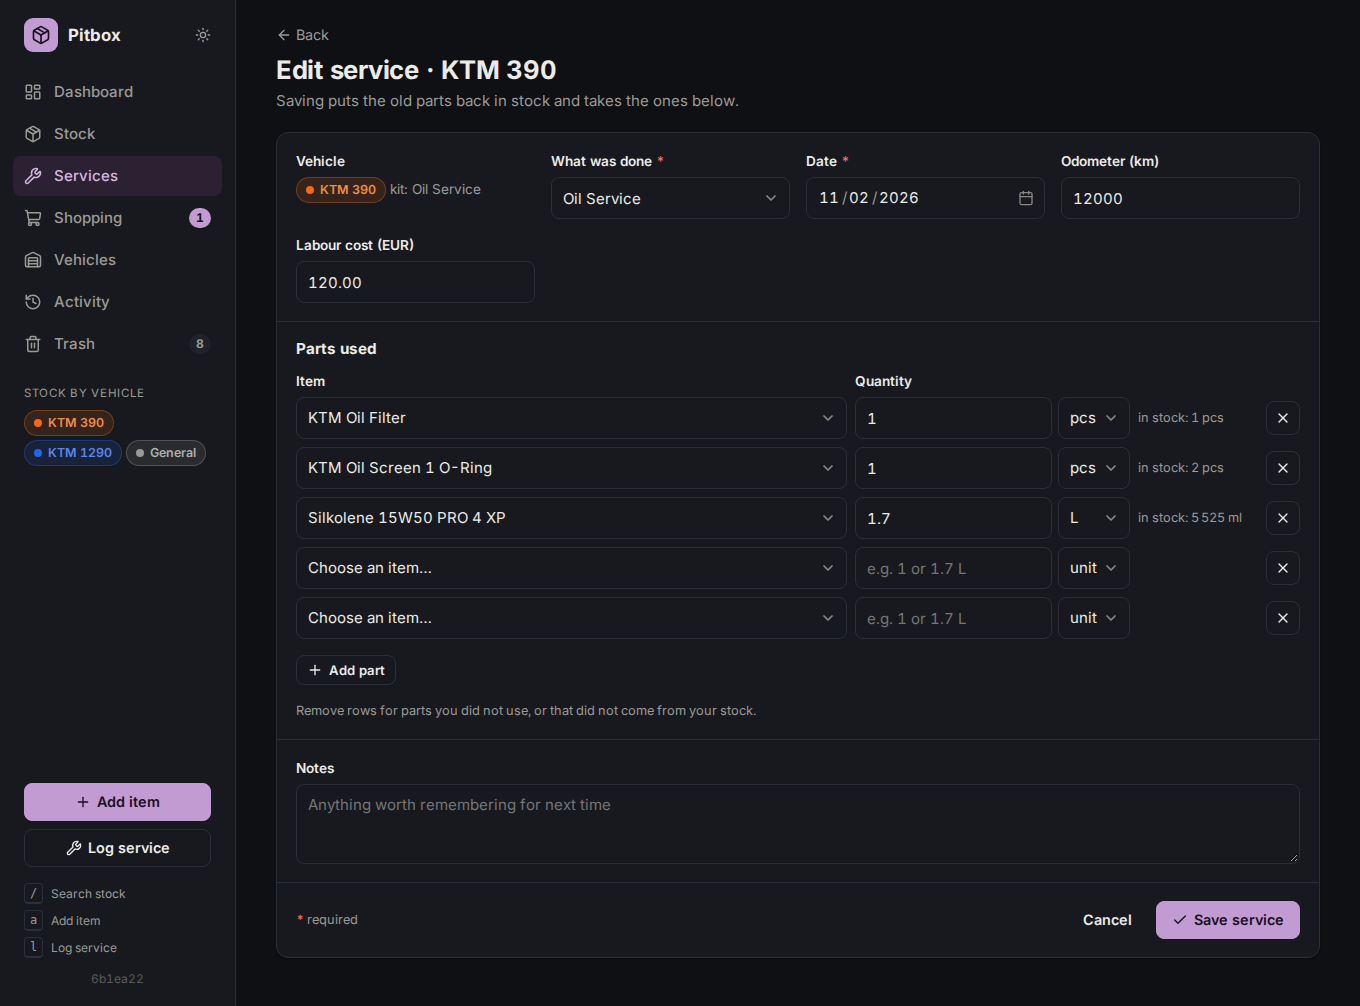
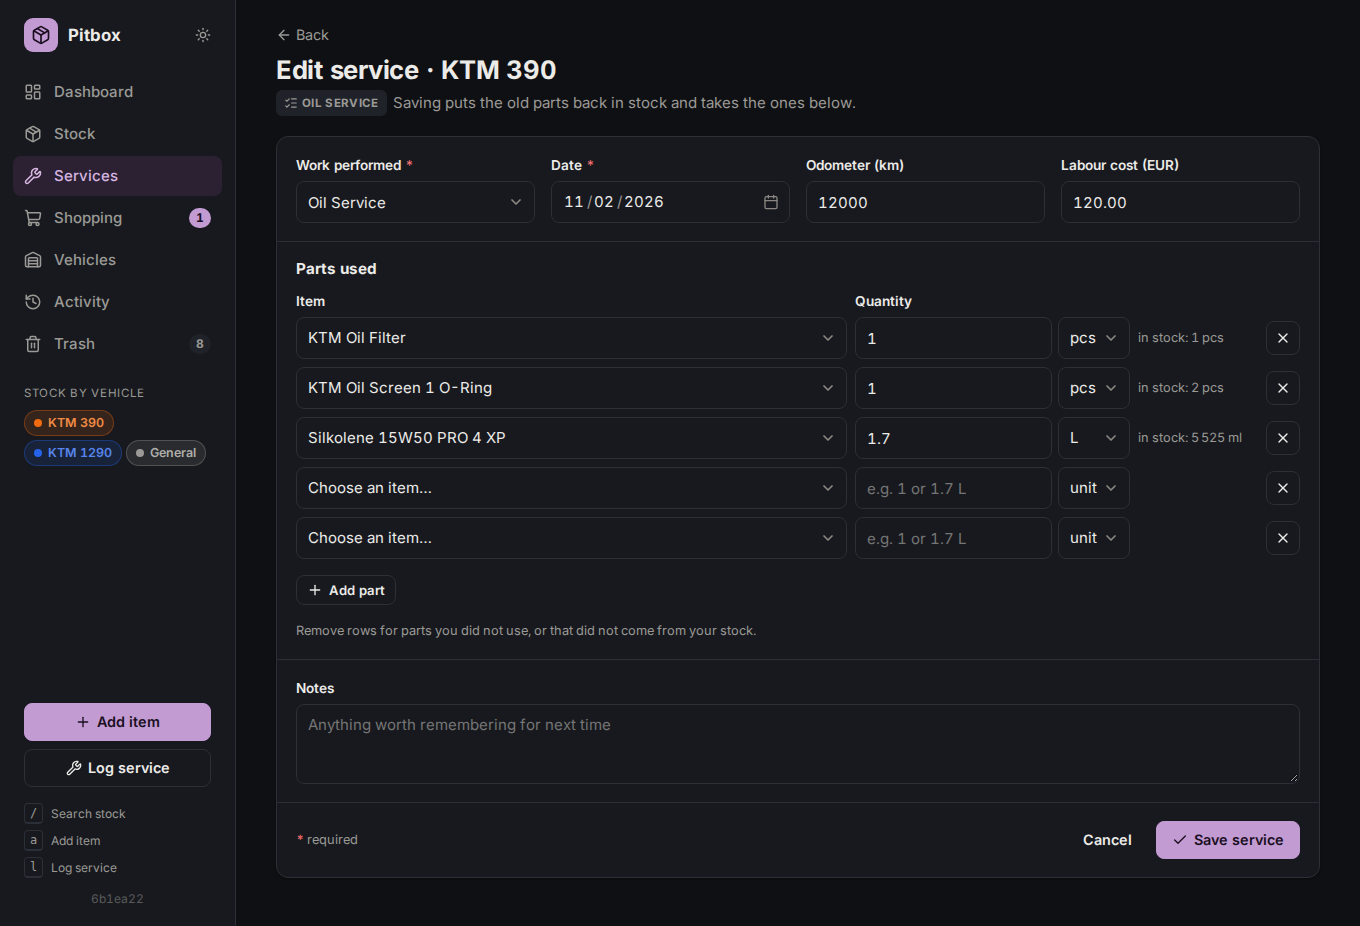
refactor: rename service title field to Work performed and improve service form layout

diff --git a/internal/web/templates/pages/service_form.html b/internal/web/templates/pages/service_form.html
@@ -3,7 +3,10 @@
 <div class="page-head">
   <div>
     <h1>{{if $f.ID}}Edit service{{else}}Log service{{end}}{{with $d.Vehicle}} · {{.Name}}{{end}}</h1>
-    <p class="sub">{{if $f.ID}}Saving puts the old parts back in stock and takes the ones below.{{else}}The parts below are taken from stock when you save.{{end}}</p>
+    <div class="sub flex">
+      {{if $f.KitID}}<a class="badge badge-muted" href="/kits/{{$f.KitID}}" target="_blank" title="View kit in new tab">{{icon "list-checks"}} {{$f.KitName}}</a>{{end}}
+      <span>{{if $f.ID}}Saving puts the old parts back in stock and takes the ones below.{{else}}The parts below are taken from stock when you save.{{end}}</span>
+    </div>
   </div>
 </div>
 
@@ -23,24 +26,21 @@
   {{if $f.ID}}<input type="hidden" name="version" value="{{$f.Version}}">{{end}}
   {{template "form-key" $f.FormKey}}
   {{template "form-banners" $f}}
+  {{if or $f.KitID $f.ID}}<input type="hidden" name="vehicle_id" value="{{$f.VehicleID}}">{{end}}
   {{if $f.KitID}}<input type="hidden" name="kit_id" value="{{$f.KitID}}"><input type="hidden" name="kit_name" value="{{$f.KitName}}">{{end}}
   <div class="form-section">
     <div class="form-grid">
+      {{if not (or $f.KitID $f.ID)}}
       <div class="field{{if or (index $e "vehicle_id") (index $e "kit_id")}} has-error{{end}}">
-        {{if or $f.KitID $f.ID}}
-        <span class="label">Vehicle</span>
-        <input type="hidden" name="vehicle_id" value="{{$f.VehicleID}}">
-        <div>{{with $d.Vehicle}}{{template "chip" .}}{{end}}{{if $f.KitID}} <span class="muted small">kit: {{$f.KitName}}</span>{{end}}</div>
-        {{else}}
         <div class="label-row"><label for="vehicle_id">Vehicle</label>{{template "req"}}</div>
         <select class="input" id="vehicle_id" name="vehicle_id" aria-required="true">
           <option value="">Choose…</option>
           {{range $d.Vehicles}}<option value="{{.ID}}" {{if eq .ID $f.VehicleID}}selected{{end}}>{{.Name}}</option>{{end}}
         </select>
-        {{end}}
         {{template "err" (index $e "vehicle_id")}}
         {{template "err" (index $e "kit_id")}}
       </div>
+      {{end}}
       {{if $d.KitHasInter}}
       <fieldset class="field">
         <legend>Schedule</legend>
@@ -51,7 +51,7 @@
       </fieldset>
       {{end}}
       <div class="field{{if index $e "title"}} has-error{{end}}">
-        <div class="label-row"><label for="title">What was done</label>{{template "req"}}</div>
+        <div class="label-row"><label for="title">Work performed</label>{{template "req"}}</div>
         <input class="input" id="title" name="title" value="{{$f.Title}}" aria-required="true" placeholder="e.g. Oil Service" list="service-titles">
         {{template "datalist" (dict "ID" "service-titles" "Options" $d.ServiceTitles)}}
         {{template "err" (index $e "title")}}

diff --git a/e2e/tests/garage.spec.ts b/e2e/tests/garage.spec.ts
@@ -1055,7 +1055,7 @@ test("a save that seems stuck can be tried again, and saves once", async ({ page
   ]);
   await form.waitForLoadState();
   await form.getByLabel("Vehicle", { exact: true }).selectOption({ label: "KTM 390" });
-  await form.getByLabel("What was done").fill("Chain clean (retried)");
+  await form.getByLabel("Work performed").fill("Chain clean (retried)");
 
   // The first save is held on its way to the server. Once let go it is
   // saved, and only then does the retry arrive, as after a slow network.
@@ -1129,12 +1129,12 @@ test("intermediate schedule on a kit alternates with the full schedule", async (
 
   // Clicking "Do this service" pre-selects Intermediate and pre-fills the intermediate parts and title.
   await page.getByRole("link", { name: "Do this service" }).click();
-  await expect(page.getByLabel("What was done")).toHaveValue("Oil Service (Intermediate)");
+  await expect(page.getByLabel("Work performed")).toHaveValue("Oil Service (Intermediate)");
   await expect(page.locator('input[name="kit_intermediate"][value="1"]')).toBeChecked();
 
   // Toggling to Full in the browser switches the title and parts to Full.
   await page.locator(".segmented label").filter({ hasText: "Full" }).click();
-  await expect(page.getByLabel("What was done")).toHaveValue("Oil Service");
+  await expect(page.getByLabel("Work performed")).toHaveValue("Oil Service");
   await page.locator(".segmented label").filter({ hasText: "Intermediate" }).click();
-  await expect(page.getByLabel("What was done")).toHaveValue("Oil Service (Intermediate)");
+  await expect(page.getByLabel("Work performed")).toHaveValue("Oil Service (Intermediate)");
 });

diff --git a/internal/web/web_test.go b/internal/web/web_test.go
@@ -637,12 +637,12 @@ func TestAccessibilityDetails(t *testing.T) {
 	// Only the selected tab is in the tab order; the price label names the currency.
 	expect(t, a.get("/items/"+itoa(pads)), http.StatusOK, `id="tab-bought" aria-controls="panel-bought" aria-selected="true">`,
 		`id="tab-used" aria-controls="panel-used" aria-selected="false" tabindex="-1">`, "Total price (EUR)")
-	// A fixed vehicle has no <label for> pointing at nothing.
+	// A fixed vehicle is carried as a hidden input and has no vehicle picker or label.
 	rec := a.post("/services", url.Values{"vehicle_id": {itoa(k390)}, "title": {"Chain clean"}, "performed_on": {"2026-10-29"}})
 	expect(t, rec, http.StatusSeeOther)
 	edit := a.get(rec.Header().Get("Location") + "/edit")
-	expect(t, edit, http.StatusOK, `<span class="label">Vehicle</span>`)
-	expectNot(t, edit, `for="vehicle_id"`)
+	expect(t, edit, http.StatusOK, `<input type="hidden" name="vehicle_id" value="`+itoa(k390)+`">`)
+	expectNot(t, edit, `for="vehicle_id"`, `id="vehicle_id"`)
 	// The item picker is marked when it is what's wrong.
 	expect(t, a.post("/shopping", url.Values{"item_id": {"999999"}}), http.StatusUnprocessableEntity,
 		`<div class="field has-error">
@@ -698,6 +698,8 @@ func TestKitIntermediateWebFlow(t *testing.T) {
 
 	// New service from kit pre-selects Full schedule and pre-fills Full parts.
 	expect(t, a.get("/services/new?kit="+kitID), http.StatusOK,
+		`<a class="badge badge-muted" href="/kits/`+kitID+`" target="_blank" title="View kit in new tab"><svg class="icon" aria-hidden="true"><use href="#i-list-checks"></use></svg> Oil service</a>`,
+		`<input type="hidden" name="vehicle_id" value="`+itoa(k1290)+`">`,
 		`name="kit_intermediate" value="0" data-kit-tier="full" data-kit-name="Oil service" checked`,
 		`id="title" name="title" value="Oil service"`,
 		`id="kit-full-parts"`, `id="kit-inter-parts"`)

diff --git a/internal/web/vocabulary_test.go b/internal/web/vocabulary_test.go
@@ -28,6 +28,7 @@ func TestVocabulary(t *testing.T) {
 		{re: `Create a kit`, use: `"Add kit"`},
 		{re: `Activity log`, use: `"Activity"`},
 		{re: `Save changes`, use: `"Save <thing>"`},
+		{re: `\bWhat was done\b`, use: `"Work performed"`},
 		{re: `placeholder="optional"|\(optional\)</h2>`, use: "a red star on required fields instead", uiOnly: true},
 		{re: `data-confirm`, use: "nothing: it can be undone. Only permanent deletes ask", uiOnly: true, allowIn: "trash.html"},
 		{re: `<noscript`, use: "nothing: JavaScript is assumed", uiOnly: true},

diff --git a/docs/user-guide.md b/docs/user-guide.md
@@ -47,7 +47,7 @@ On kit and service part rows, pick the unit next to the quantity: choosing an it
 - **Do this service** opens the service form with the kit's parts filled in (for the schedule that is up next when the kit has an intermediate schedule; you can also switch between **Full** and **Intermediate** on the form). Adjust quantities, remove what you didn't use, enter the odometer and save. The parts are taken from stock and the vehicle's odometer is updated. If parts are short, every short row is marked and nothing is saved.
 - Made a mistake? **Edit** the service (on its page): change the date, odometer, title, labour, notes or parts. The old parts go back in stock and the new ones are taken; if a part is short, nothing changes. Or delete the service. Its parts go back in stock, and if it moved the vehicle's odometer (and you haven't changed the odometer since), the odometer goes back too.
 
-You can also log a service without a kit (Services → Log service), e.g. for a one-off repair. **What was done** suggests common maintenance jobs as well as your saved kits and past services.
+You can also log a service without a kit (Services → Log service), e.g. for a one-off repair. **Work performed** suggests common maintenance jobs as well as your saved kits and past services.
 
 ## Shopping
 

diff --git a/docs/conventions.md b/docs/conventions.md
@@ -81,6 +81,7 @@ One name for each thing, everywhere: pages, messages, comments and docs. `TestVo
 | Shopping list (the list, and its dashboard tile) · N suggested (what the list could take) | To buy |
 | All vehicles · All types · All categories · All years · Clear filters | All, Everything, clear filters |
 | All services → · All activity → · Full history → (a card's link names where it goes) | Manage →, All →, Everything → |
+| Work performed (the service form field) | What was done |
 
 - Record actions sit in the page header: Edit first, Archive (plain style, it can be undone), Delete (red, the trash icon), Restore (primary).
 - Nothing that can be undone asks first; only the trash's Delete permanently and Empty do (`data-confirm`).
